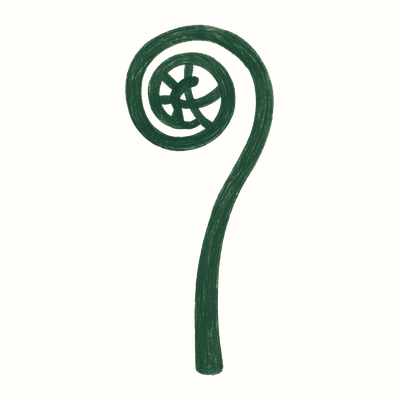
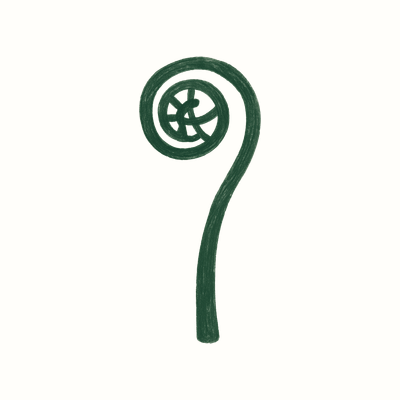
Polish branding, graph modal, and profile picture assets.
Use the PNG logo in the header, fix graph open handlers across SPA navigation, restore the graph modal on tag pages, and regenerate PFP images with more padding on the site cream background.

Changed region(s): [[0.3, 0.06, 0.69, 0.96]]

diff --git a/quartz/components/scripts/graph.inline.ts b/quartz/components/scripts/graph.inline.ts
@@ -680,6 +680,61 @@ function cleanupGlobalGraphs() {
   globalGraphCleanups = []
 }
 
+function getGlobalGraphContainers() {
+  return [...document.getElementsByClassName("global-graph-outer")] as HTMLElement[]
+}
+
+function hideGlobalGraph() {
+  cleanupGlobalGraphs()
+  for (const container of getGlobalGraphContainers()) {
+    container.classList.remove("active")
+    container.setAttribute("aria-hidden", "true")
+  }
+}
+
+async function renderGlobalGraph() {
+  const containers = getGlobalGraphContainers()
+  if (containers.length === 0) return
+
+  const currentSlug = getFullSlug(window)
+  document.body.classList.add("global-graph-active")
+  globalGraphCleanups.push(() => document.body.classList.remove("global-graph-active"))
+
+  for (const container of containers) {
+    container.classList.add("active")
+    container.setAttribute("aria-hidden", "false")
+
+    const graphContainer = container.querySelector(".global-graph-container") as HTMLElement
+    const closeButton = container.querySelector(".global-graph-close") as HTMLElement
+    registerEscapeHandler(container, hideGlobalGraph)
+
+    if (closeButton) {
+      closeButton.addEventListener("click", hideGlobalGraph)
+      globalGraphCleanups.push(() => closeButton.removeEventListener("click", hideGlobalGraph))
+    }
+
+    const onBackdropClick = (e: MouseEvent) => {
+      if (e.target === e.currentTarget) {
+        hideGlobalGraph()
+      }
+    }
+
+    container.addEventListener("click", onBackdropClick)
+    globalGraphCleanups.push(() => container.removeEventListener("click", onBackdropClick))
+
+    if (graphContainer) {
+      globalGraphCleanups.push(await renderGraph(graphContainer, currentSlug))
+    }
+  }
+}
+
+document.addEventListener("click", (e) => {
+  const trigger = (e.target as Element | null)?.closest(".graph-open")
+  if (!trigger) return
+  e.preventDefault()
+  void renderGlobalGraph()
+})
+
 document.addEventListener("nav", async (e: CustomEventMap["nav"]) => {
   const slug = e.detail.url
   addToVisited(simplifySlug(slug))
@@ -694,71 +749,20 @@ document.addEventListener("nav", async (e: CustomEventMap["nav"]) => {
 
   await renderLocalGraph()
 
-  const containers = [...document.getElementsByClassName("global-graph-outer")] as HTMLElement[]
-
-  async function renderGlobalGraph() {
-    const currentSlug = getFullSlug(window)
-    document.body.classList.add("global-graph-active")
-    globalGraphCleanups.push(() => document.body.classList.remove("global-graph-active"))
-
-    for (const container of containers) {
-      container.classList.add("active")
-      container.setAttribute("aria-hidden", "false")
-
-      const graphContainer = container.querySelector(".global-graph-container") as HTMLElement
-      const closeButton = container.querySelector(".global-graph-close") as HTMLElement
-      registerEscapeHandler(container, hideGlobalGraph)
-
-      if (closeButton) {
-        closeButton.addEventListener("click", hideGlobalGraph)
-        globalGraphCleanups.push(() => closeButton.removeEventListener("click", hideGlobalGraph))
-      }
-
-      container.addEventListener("click", onBackdropClick)
-      globalGraphCleanups.push(() => container.removeEventListener("click", onBackdropClick))
-
-      if (graphContainer) {
-        globalGraphCleanups.push(await renderGraph(graphContainer, currentSlug))
-      }
-    }
-  }
-
-  function onBackdropClick(e: MouseEvent) {
-    if (e.target === e.currentTarget) {
-      hideGlobalGraph()
-    }
-  }
-
-  function hideGlobalGraph() {
-    cleanupGlobalGraphs()
-    for (const container of containers) {
-      container.classList.remove("active")
-      container.setAttribute("aria-hidden", "true")
-    }
-  }
-
   async function shortcutHandler(e: HTMLElementEventMap["keydown"]) {
     if (e.key === "g" && (e.ctrlKey || e.metaKey) && !e.shiftKey) {
       e.preventDefault()
-      const anyGlobalGraphOpen = containers.some((container) =>
+      const anyGlobalGraphOpen = getGlobalGraphContainers().some((container) =>
         container.classList.contains("active"),
       )
       anyGlobalGraphOpen ? hideGlobalGraph() : renderGlobalGraph()
     }
   }
 
-  const graphTriggers = document.getElementsByClassName("graph-open")
-  Array.from(graphTriggers).forEach((trigger) => {
-    const onOpen = (e: Event) => {
-      e.preventDefault()
-      void renderGlobalGraph()
-    }
-    trigger.addEventListener("click", onOpen)
-    window.addCleanup(() => trigger.removeEventListener("click", onOpen))
-  })
-
   const handleThemeChange = () => {
-    const anyOpen = containers.some((container) => container.classList.contains("active"))
+    const anyOpen = getGlobalGraphContainers().some((container) =>
+      container.classList.contains("active"),
+    )
     if (anyOpen) {
       hideGlobalGraph()
       void renderGlobalGraph()

diff --git a/quartz/components/PageTitle.tsx b/quartz/components/PageTitle.tsx
@@ -1,15 +1,14 @@
-import { pathToRoot } from "../util/path"
+import { pathToRoot, joinSegments } from "../util/path"
 import { QuartzComponent, QuartzComponentConstructor, QuartzComponentProps } from "./types"
 import { classNames } from "../util/lang"
 
 const PageTitle: QuartzComponent = ({ fileData, cfg, displayClass }: QuartzComponentProps) => {
   const baseDir = pathToRoot(fileData.slug!)
+  const logoPath = joinSegments(baseDir, "static/logo.png")
   return (
     <h2 class={classNames(displayClass, "page-title")}>
       <a href={baseDir} aria-label={cfg?.pageTitle} style={{ display: "flex", alignItems: "center" }}>
-        <svg id="Layer_1" data-name="Layer 1" xmlns="http://www.w3.org/2000/svg" viewBox="0 0 499.91 1179.34" style={{ height: "2.6em", fill: "currentColor" }}>
-          <path d="M249.33.12c8.83.08,32.01,1.29,39.58,4.96,3.12,1.52,2.8,3.14,3.01,3.25.26.15,3.14-2.45,5.52-1.59l5.97,5.59c2.15-4.77,9.31-2.05,11,2l1.04-2.07,21.79,6.26c1.01,1.69,5.63,3.85,7.54,4.32,2.26.56,4.84-1.75,6.14,3.47,3.91.95-.75-2.23,2.47-1.98,1.96,4.77,3.12,1.88,6.22,2.74s3.57,3.39,5.07,4.23c17.38,9.7,37.04,18.1,50.91,33.24,4.06,4.43,4.49,4.29,9.32,8.28,2.57,2.12,15.83,16.81,16.66,19.21.2.58-.41,1.58-.61,2.23l3.93,1.08-2.99,1c1.76,2.77,2.39,6.13,5.99,6.99l.49-2.99c4.15,1.66,2.49,7.14,2.97,8.04s2.15.13,2.58.52c2.74,2.45,7.97,12.76,9.14,16.32l2.84.12c-1.95,2.47.84,1.87,2.23,4.24,2.39,4.09,6.81,18.09,7.99,19.52.78.95,3.38.85,3.71,1.31.75,1.04-.9,3.83-.67,5.29.17,1.05,3.67,7.21,4.39,9.47,1.97,6.15,12.68,39.67,11.33,43.17l-1.99.99,3.01.02c-1.81,3.05.17,5.06.61,7.65,9.45,55.76-1.84,119.57-21.14,171.31-4.89,13.12-9.82,22.99-16.39,34.82-1.05,1.88-1.82,7.68-2.35,8.93-.18.43-3.47,2.29-3.54,2.5-.55,1.73,1.73,2.8-1.19,6.33-5.58,6.73-7.21,15.33-11.32,23.16-.25.48-1.72.68-2.08,1.35-1.27,2.36-1.11,6.83-4.6,6.95l1.54,2.97c-4.11,4.95-6.25,11.01-9.69,16.38-3.71,5.78-4.33,6-7.42,12.55-1.43,3.03-3.72,5.73-4.44,9.08l-1.98-1.99c1.48,4.08-1.46,4.7-1.94,5.76-6.02,13.38-14.65,25.44-21.26,38.54-4.73,9.36-7.46,20.91-13.97,29.07-.83,1.04-2.64,1.66-2.72,1.8-.48.9,1.06,2.81.93,4.19-.07.76-6.27,10.46-7.26,12.93-30.61,77.28-51.69,172.2-52.6,255.2-.03,3,1.32,6.37.86,10.06-.24,1.93-2.41,1.39-2.87,4.17-.51,3.05,2.08,9.57-1.18,9.29l3.06,6.41-2.08,1.06c1.47,1.07,1.86,2.2,2.06,3.95,1.61,14.55-1.29,36.4-1.1,52.1.21,17.61,2.32,35.45,2.12,52.94-.03,2.81-2.22,8.14-.82,10.34l1.76.68-2,.5,1.98.99.03,2.52-2.02.99,2.99,3.02-1.98,2.47c3.63.07,1.75,9.73,2.04,13.53.26,3.38.64,6.78,2.02,9.94l-2.12,1.11,3.07,11.93-3.01.52,3.04,2.54-3.03,5.45,2.99-1-.19,6.86-2.8.64,3.99.5,10.01,83.01h-4.02s.02,3,.02,3l2.98-2c2.02,2.69-10.61,13.14-12.19,15.84-2.49-.51-5.44.74-6.32-1.57l-1.47.74v-4.02s-3.02.01-3.02.01c2.35,2.61-3.38,7.9-5.39,5.99-.99,4.26-4.74-.41-6.11,2l1.51,2.99-4.98-3.98c-.4,4.52-7.98.86-10.52,4.99l-.99-2.01-2.5,2,1-2.98c-2.02-.42-2.71,1.91-4.55,2.05s-3.05-1.47-4.72-1.76c-3.52-.6-5.18,1.15-7.2,1.25-5.01.26-20.89-10.68-23.34-15.32-.85-1.61-.19-3.1-.41-3.75-.18-.53-1.56-.36-1.73-1.17-.55-2.55-.71-7.13-.02-9.8l-2,.49c-.33-1.85,1.31-2.29,1.53-4.08.58-4.69-3.66-10.16.46-13.43-3.9-1.01-1.38-5.06-1.52-8.02-.38-8.15.14-11.84.56-19.07.07-1.22-1.61-5.74-1.67-8.76-.11-5.85-.26-11.72-.41-18.11-1.15-49.88-1.82-100.05,1.01-149.9l2.02-1.62c-4.18.28.03-7.67-1.83-10.56l1.88-.96c-2.83-5.72-.1-14.04.52-20.54,1.02-10.7,1.22-23.96,2.72-36.18,4.75-38.68,11.29-79.12,20.48-117.52,1.04-4.33,2.41-16.22,4.4-19.61.63-1.06,1.6-1.66,2.84-1.66-.05-1.78-3.14-.16-1.98-3.47.63-1.81,2.91-.38,2.98-.51.61-1.79-1.56-2.41-1.64-3.49-.04-.6,2.48-9.94,2.95-11.72,17.53-66.46,42.54-133.12,77.5-190.45,1.93-3.17,4.98-8.86,6.72-11.34,2.48-3.53.35,2.77,2.48,2.98l.02-8.99,2.98,5c-1.51-3.18,1.99-4.33,2.05-4.67.34-2.04-1.9-4.22.96-5.83l-1.99-.99c4.69-7.65,9.31-15.27,14.21-22.8,1.04-1.59,1.52-4.99,2.06-5.5.49-.47,2.07.12,2.81-.81,2.02-2.53-.28-6.5,3.74-7.98l-.67-1.94,2.84-.49-1.99-1.48c3.06-2,1.95-4.26,2.46-5.49,3.41-8.2,8.76-15.24,12.43-21.8,1.89-3.37,4.1-13.66,8.1-12.21l-.99-3.99,3.99-.02c.44-1.56-3.76-.59-1.99-3,.46-.62,1.62,2.51,1.79-.27.26-4.2,3.51-9.48,5.46-13.98,1.08-2.5,3.02-2.67,2.15-6.8l3.58-.98.03-6.97,1.98,1.01c-2.42-4.15,2.61-2.82,1.25-5.49l1.75-.52-2.98-1.97c2.31.48,2.7-3.79,3.39-5.97,14.63-46.09,19.31-104.69,8.5-154.44-.58-2.66-4.36-17.06-4.86-17.9-.71-1.19-3.88-.71-1.12-5.29l-1.91-.42,1.99-1.48c-6.72-3.58-4.69-9.64-8.99-15.04l2-.96c-2.69-.74-2.19-1.88-2.02-4.51l-1.97,1.01c-2.06-8.38-9.68-14.11-13.04-21.99-1.41-1-.39,3.89-2.46.96-2.29-3.26-3.81-9.83-7.52-10.98l1.99-1.98c-4.54.71-2.02-1.36-2.59-2.01-2.02-2.33-6.4-5.15-8.98-7.95-1.21-1.31-1.15-3.45-2.08-4.13s-3.17-.75-4.86-1.91c-3.49-2.39-3.67-6.81-8.58-6.48-.16-3.38-3.89-4.81-6.22-5.72-1.54-.61-1.47-2.29-2.38-2.87-4.98-3.12-5.56-2.99-10.79-6.96-2.92-2.21-8.26-3.49-11.35-6.15l.84-1.83c-4.2,1.35-4.46-2.43-5.19-2.88-.34-.21-4.97.2-7.81-.85-7.82-2.89-16.66-7.52-23.53-12.26l-.47,1.98c-4.76.32-8.43-3.17-12.8-4.72-3.27-1.17-7.07.54-7.23-3.26l-1.49,2-2.48-2-.5,1.99c-1.21-2.23-2.71-.93-4.25-1.28-.27-.06-.17-1.56-.7-1.57-4.18-.09-9.72,1.54-14.13.93-1.91-.26-1.35-2.08-2-2.1-1.11-.04-3.01,1.12-4.94,1.11-12.44-.06-24.95-.74-36.98,2.92l1.47-2.51-1.97-1.49-.61,2.07-7.4-1.07,2.99,3.99c-3.43-1.9-5.79.67-7.66.83-.91.08-5.13-2.46-7.75-1.58-1.44.48-1.35,2.56-2.83,3.11-2.6.95-10.47-1.21-13.69,1.74l.93,2.91c-4.39-3.05-5.05.84-5.67.99-2.27.53-5.32-.55-7.67.17l-1.22.82.57,4.02-2.49-3.99-2.5,1.01,1.97,1.03c2.19,2.61-16.84,11.29-19.99,9.97l1.01,1.98c-1.61.16-3.01-1.06-4.56-1.1-1.73-.05-1.37,1.66-1.68,1.8-.45.2-1.37-.66-1.57-.49-1.03.85-1.73,4.58-2.77,5.76-4.11,4.65-16.68,9.33-22.35,14.64-23.47,21.99-41.44,47.98-49.36,77.61-3.72,13.93-7.04,36.93-6.75,51.24.08,3.71,2.45,11.12,2.07,12.89-.11.52-2.59.18-1.8,5.17,4.67,29.38,14.74,59.18,33.76,83.99,10.09,13.16,23.45,20.1,36.35,29.65,1.49,1.1,1.95,2.88,3.16,3.85,2.44,1.96-.47-3.56,1.98-1.99,1.27.82,2.09,2.6,3.58,3.42,2.68,1.48,6.78,2.36,9,3.14,5.59,1.98,12.71,3.33,17.58,5.24,1.17.46,1.53.89,1.37,2.17,3.12-3.09,7.1,0,10.83.46,15.32,1.89,28.66-.65,43.24-3.87,2.97-.66,6.07.31,8.49-2.51l3.43,1.93-.5-1.99c14.75-6.24,32.47-10.93,43.49-23-3.79.27-13.61-12.08-16.31-11.85-3.05.38-5.81,4.3-7.97,5.12-1.56.58-3.35-.52-3.72-.27-.1.07,1.03,1.56.08,2.47-2.93,2.84-22.68,8.7-27.67,9.44-7.41,1.11-27.93,1.69-34.76,0-.8-.2-.84-2.21-2.6-2.55-2.28-.44-5.83.69-11.09-.85-12.11-3.55-27.43-11.44-37.62-18.88-4.5-3.28-12.3-8.69-13.36-13.66l-1.9.93c-.22-4.9-3.24-3.68-5.11-5.3-2.5-2.16-2.98-5.33-4.57-7.52-3.58-4.93-6.88-7.25-9.52-12.47-22.42-44.27-23.06-95.19,5.11-136.86.89-1.32,1.77-.76,3-.78l-1.99-1.49c.69-1.61,2.98-.43,3.55-1.45s-.52-2.48.36-3.63c1.08-1.41,2.72-.49,2.91-.66,1.01-.94,3.06-6.87,4.49-8.45,1.8-2,4.38-1.32,4.53-1.51,19.53-25.8,65.71-42.82,96.81-44.63,33.21-1.93,58.68,4.87,87.23,21.46,45.29,26.32,68.33,74.7,71.11,125.89,3.97,73.2-37.09,132.52-101.09,164.88-10.38,5.25-22.52,7.73-32.13,11.89-4.63,2-10.81,1.98-15.77,2.71l1.01-1.98h-3.01s1,2.99,1,2.99c-1,1.05-26.29,4.75-28.56,4.56-.99-.08-1.92-1.95-2.43-1.55l-.47,1.99-8.11-2.94c-4.74,3.94-17.43.21-24.22-.87-35.21-5.57-62.02-19.09-88.95-41.22-5.37-4.41-3.26-3.9-6.69-8.04-5.48-6.62-14.67-14.42-20.59-20.69-2.36-2.51-13.25-20.36-14.26-23.58-.48-1.53-.43-2.23.29-3.66l-2.89-.09c.89-3.79-1.7-3.69-2.41-5.17-9.53-19.89-15.23-44.01-18.46-65.5-.53-3.55-2.02-10.65.75-12.76-3.3-.75-1.38-6.79-1.58-10.02-.47-7.31-.02-10.97.1-17.53.07-3.96-1.02-10.67-1.41-14.83l2.9-1.61c-3.76-.95-1.08-3.1-1-6,.24-8.12,1.84-15.23,3.35-22.87.35-1.78,2.24-4.15,1.66-6.62l1.98,1.99c-.69-3.33-.83-9.16.2-12.34.41-1.27,4.47-3.33,5.44-5.58,2.1-4.83,2.4-10.71,3.6-15.34,1.12-4.31,7.21-9.3,9.07-14.75,4.33-12.64,10.51-17.45,18-27.62,12.44-16.9,30.33-31.17,48.37-43.19,3.95-2.63,9.47-3.78,11.83-8.17l.98,2c1.53-2.64,5.74-1.9,7.1-2.92s.51-2.62.74-2.86c.29-.31,4.65-3.37,4.96-3.49,1.82-.68,5.08.81,5.69.21.25-.24-.33-2.1.21-2.71.75-.86,6.99-1.97,8.33-2.48.59-.22.41-1.74,1.11-1.81,1.53-.15,3.01,1.22,5.44.67,1.56-.35,4.71-5.42,9.6-6.52l1.82,1.91c2.17-2.04,5.16-2.1,7.74-3.09.65-.25.75-1.51,1.59-1.84,1.83-.72,5.68-.05,5.96-.26,5.43-4.12,4.13-1.11,8.56-3.02,1.43-.62,1.27-2.32,2.44-2.77,2.98-1.14,7.91.36,10.75-3.03l.51,1.96,1.46.04,2.15-3.09,3.29,1,1.06-1.9,1,1.99c-.44-3.71,2.93-1.17,5.16-1.53,6.32-1.04,6.9-3.99,12.84,1.54.2-1.15.44-2.98,1.25-3.77,2.15-2.12,26.79-1.5,32.2-1.46ZM227.9,175.33c7.26-.8,19.47,2.99,20.07,11.53.06.81-.14,9.24-.25,9.71-.44,1.9-5.58,7.51-7.32,8.76-6.71,4.82-15.51,3.7-22.57,7.61-.57,3.4,2.63,4.13,3.01,5.15s.02,2.76.56,4.23c3.1,8.52,6.8,16.99,8.73,25.84,1.6.81,3.41,1.3,5.23,1.21,8.36-.38,29.09-8.16,36.84-12.25,7.02-3.7,14.03-8.79,19.77-13.14,4.59-3.48,2.37-2.78,3.04-3.56.91-1.06,4.08.06,4.64-.29.61-.38,2.31-3.87,4.25-4.31l-1.99-.99c7.53-7.77,11.78-9.09,7.17-20.18-8.15-19.64-35.77-48.02-56.15-54.69-4.62-1.51-16.17-1.76-20.62-3.43-2.1-.79-.63-2.85-3.4-2.19,1.47,13.68.45,27.41-1,40.98ZM168.9,142.35c-5.57-.62-5.8,4.6-8.01,6.47-.37.31-7.19,4.9-7.83,5.25-2.5,1.37-4.6-.1-5.15.26-.31.2-.19,3.19-.65,4.02-.88,1.59-5.46,4.42-4.35,5.97,8.43,3.06,14.53,10.66,20.44,17.09.93,1.01,2.54,1.43,3.24,2.23,1.39,1.57,6.59,11.16,8.71,10.65,6.33-5.46,12.85-11.75,21.5-13.04,1.3-1.5-.73-10.4-.79-12.47-.01-.47,1.72-.27,1.9-1.1.32-1.47.1-5.92-2.01-5.83l1.99-2.49-1.91-.43c2.35-6.59-1.02-14.2-.42-21.1l-1.15-1.15c-9.81-.37-17.7,5.17-26.5,8.66l.99-2.99ZM115.78,213.27l-2.88.07,2,4.99-1.99.02,2.06,1.61-.34,5.22c-3.2.35-2.17,2.74.29,1.68l1,13.48c11.76-5.51,24.29-4.77,36.87-5.13l3.92-17.68c-2.48-1.41-5.56-2.95-7.72-4.77-5.19-4.4-11.1-10.55-15.63-15.39-2.28-2.44-5.36-7.78-7.43-9.4-.64-.5-.44-1.11-2.02-.63l-8.13,25.93ZM185.9,246.84l2,2.5-2.99-.99v1.98c6.51,2.89,13.85,5.38,20.99,4.01-4.26-2.63-2.37-4.28-3.44-8.05-2.04-7.23-5.38-14.34-5.57-21.94-3.45,2.79-5.63,8.2-7.17,12.32-.92,2.45-1.58,8.64-2.13,9.44-.37.54-2.02-.12-1.69.73ZM493.16,239.51c.14,1.01.3,4.03,1.73,3.83l-.91-11.58,1.92-.88-4-4.53c1.27,4.15.71,9.12,1.25,13.16ZM315.76,249.49c-4.41,5.9-15.09,8.37-20.37,13.85l-.99-1.99-1.58,3.95-1.39-.7c-1.15,3.17-2.39.41-4.5,1.21-5.13,1.92-11.34,6.67-18.99,9.1-5.44,1.72-9.78,2.34-15.29,4.7-1.19.51-1.95,1.26-2.74,2.24l3.02,4-2.03,2,3.99.51-.99,2.99,2.53-.09c-.37,5.2,2.97,4.13,5.19,6.38,10.3,10.42,14.17,16.75,27.67,25.87,1.1.74,1.37,2.54,2.34,2.85,5.71,1.79,8.38-9.38,13.19-11.16l-.78-2.72c.73-.3,1.81-.53,2.25-1.2,10.5-16.14,16.56-44.63,14.6-64.26-1.8.58-.89-4.56-2.96-2.67-.34.31-1.39,4.12-2.15,5.14ZM123.64,273.03c2.58,8.91,15.73,27.08,24.3,30.77,1.28.55,3.68,1.1,4.82.39,1.31-.82,6.05-13.49,9.11-14.29-.92-3.5-3.53-7.4-4.57-10.55-.55-1.66-.77-2.98-1.33-4.73-.89-2.79-.67-9.17-4.38-9.07-8.89,3.17-18.29,3.52-27.58,3.91-.61,1.35-.78,2.14-.36,3.59ZM200.34,317.23c1.11,3.54-1.88,5.85,6.4,6.55,5.71.49,16.56-2.14,21.14-3.91,3.01-1.16,5.52-3.63,9.02-3.54l-11.83-18.66-7.59-14.41-26.57-2.93c-.5,13,5.7,24.93,9.44,36.89Z"/>
-        </svg>
+        <img src={logoPath} alt="" class="site-logo" />
       </a>
     </h2>
   )
@@ -31,24 +30,28 @@ PageTitle.css = `
     }
   }
 
+  .site-logo {
+    height: 6.25rem;
+    width: auto;
+    display: block;
+    object-fit: contain;
+  }
+
   @media all and (max-width: 800px) {
     margin: 0;
     order: -1;
     flex-shrink: 0;
     display: block !important;
-    min-width: 40px;
     
     & > a {
       display: flex;
       align-items: center;
       font-size: 0;
-      padding: 0.5rem;
+      padding: 0.25rem;
       
-      & > svg {
-        height: 40px !important;
-        width: auto !important;
-        display: block;
-        fill: var(--dark);
+      .site-logo {
+        height: 3.25rem;
+        width: auto;
       }
     }
   }

diff --git a/quartz/styles/base.scss b/quartz/styles/base.scss
@@ -301,13 +301,7 @@ a {
       }
     }
     & .page-footer {
-      position: fixed;
-      bottom: 1.5rem;
-      right: 1.5rem;
-      z-index: 100;
-      display: flex;
-      gap: 0.75rem;
-      align-items: center;
+      display: contents;
     }
 
     & .page-header {

diff --git a/quartz.config.ts b/quartz.config.ts
@@ -48,8 +48,8 @@ const config: QuartzConfig = {
           light: "#fffefa",
           lightgray: "#f8f5ef",
           gray: "#d8cbb8",
-          darkgray: "#3f3a33",
-          dark: "#171512",
+          darkgray: "#000000",
+          dark: "#000000",
           secondary: "#473d33",
           tertiary: "#a1887f",
           highlight: "rgba(188, 174, 153, 0.3)",

diff --git a/quartz/plugins/emitters/tagPage.tsx b/quartz/plugins/emitters/tagPage.tsx
@@ -134,7 +134,6 @@ export const TagPage: QuartzEmitterPlugin<Partial<TagPageOptions>> = (userOpts) 
   const opts: FullPageLayout = {
     ...sharedPageComponents,
     ...defaultListPageLayout,
-    afterBody: [],
     pageBody: TagContent({ sort: userOpts?.sort }),
     ...userOpts,
   }

diff --git a/quartz/util/og.tsx b/quartz/util/og.tsx
@@ -225,6 +225,7 @@ export const defaultImage: SocialImageOptions["imageStructure"] = ({
             height={56}
             style={{
               borderRadius: "50%",
+              objectFit: "contain",
             }}
           />
         )}